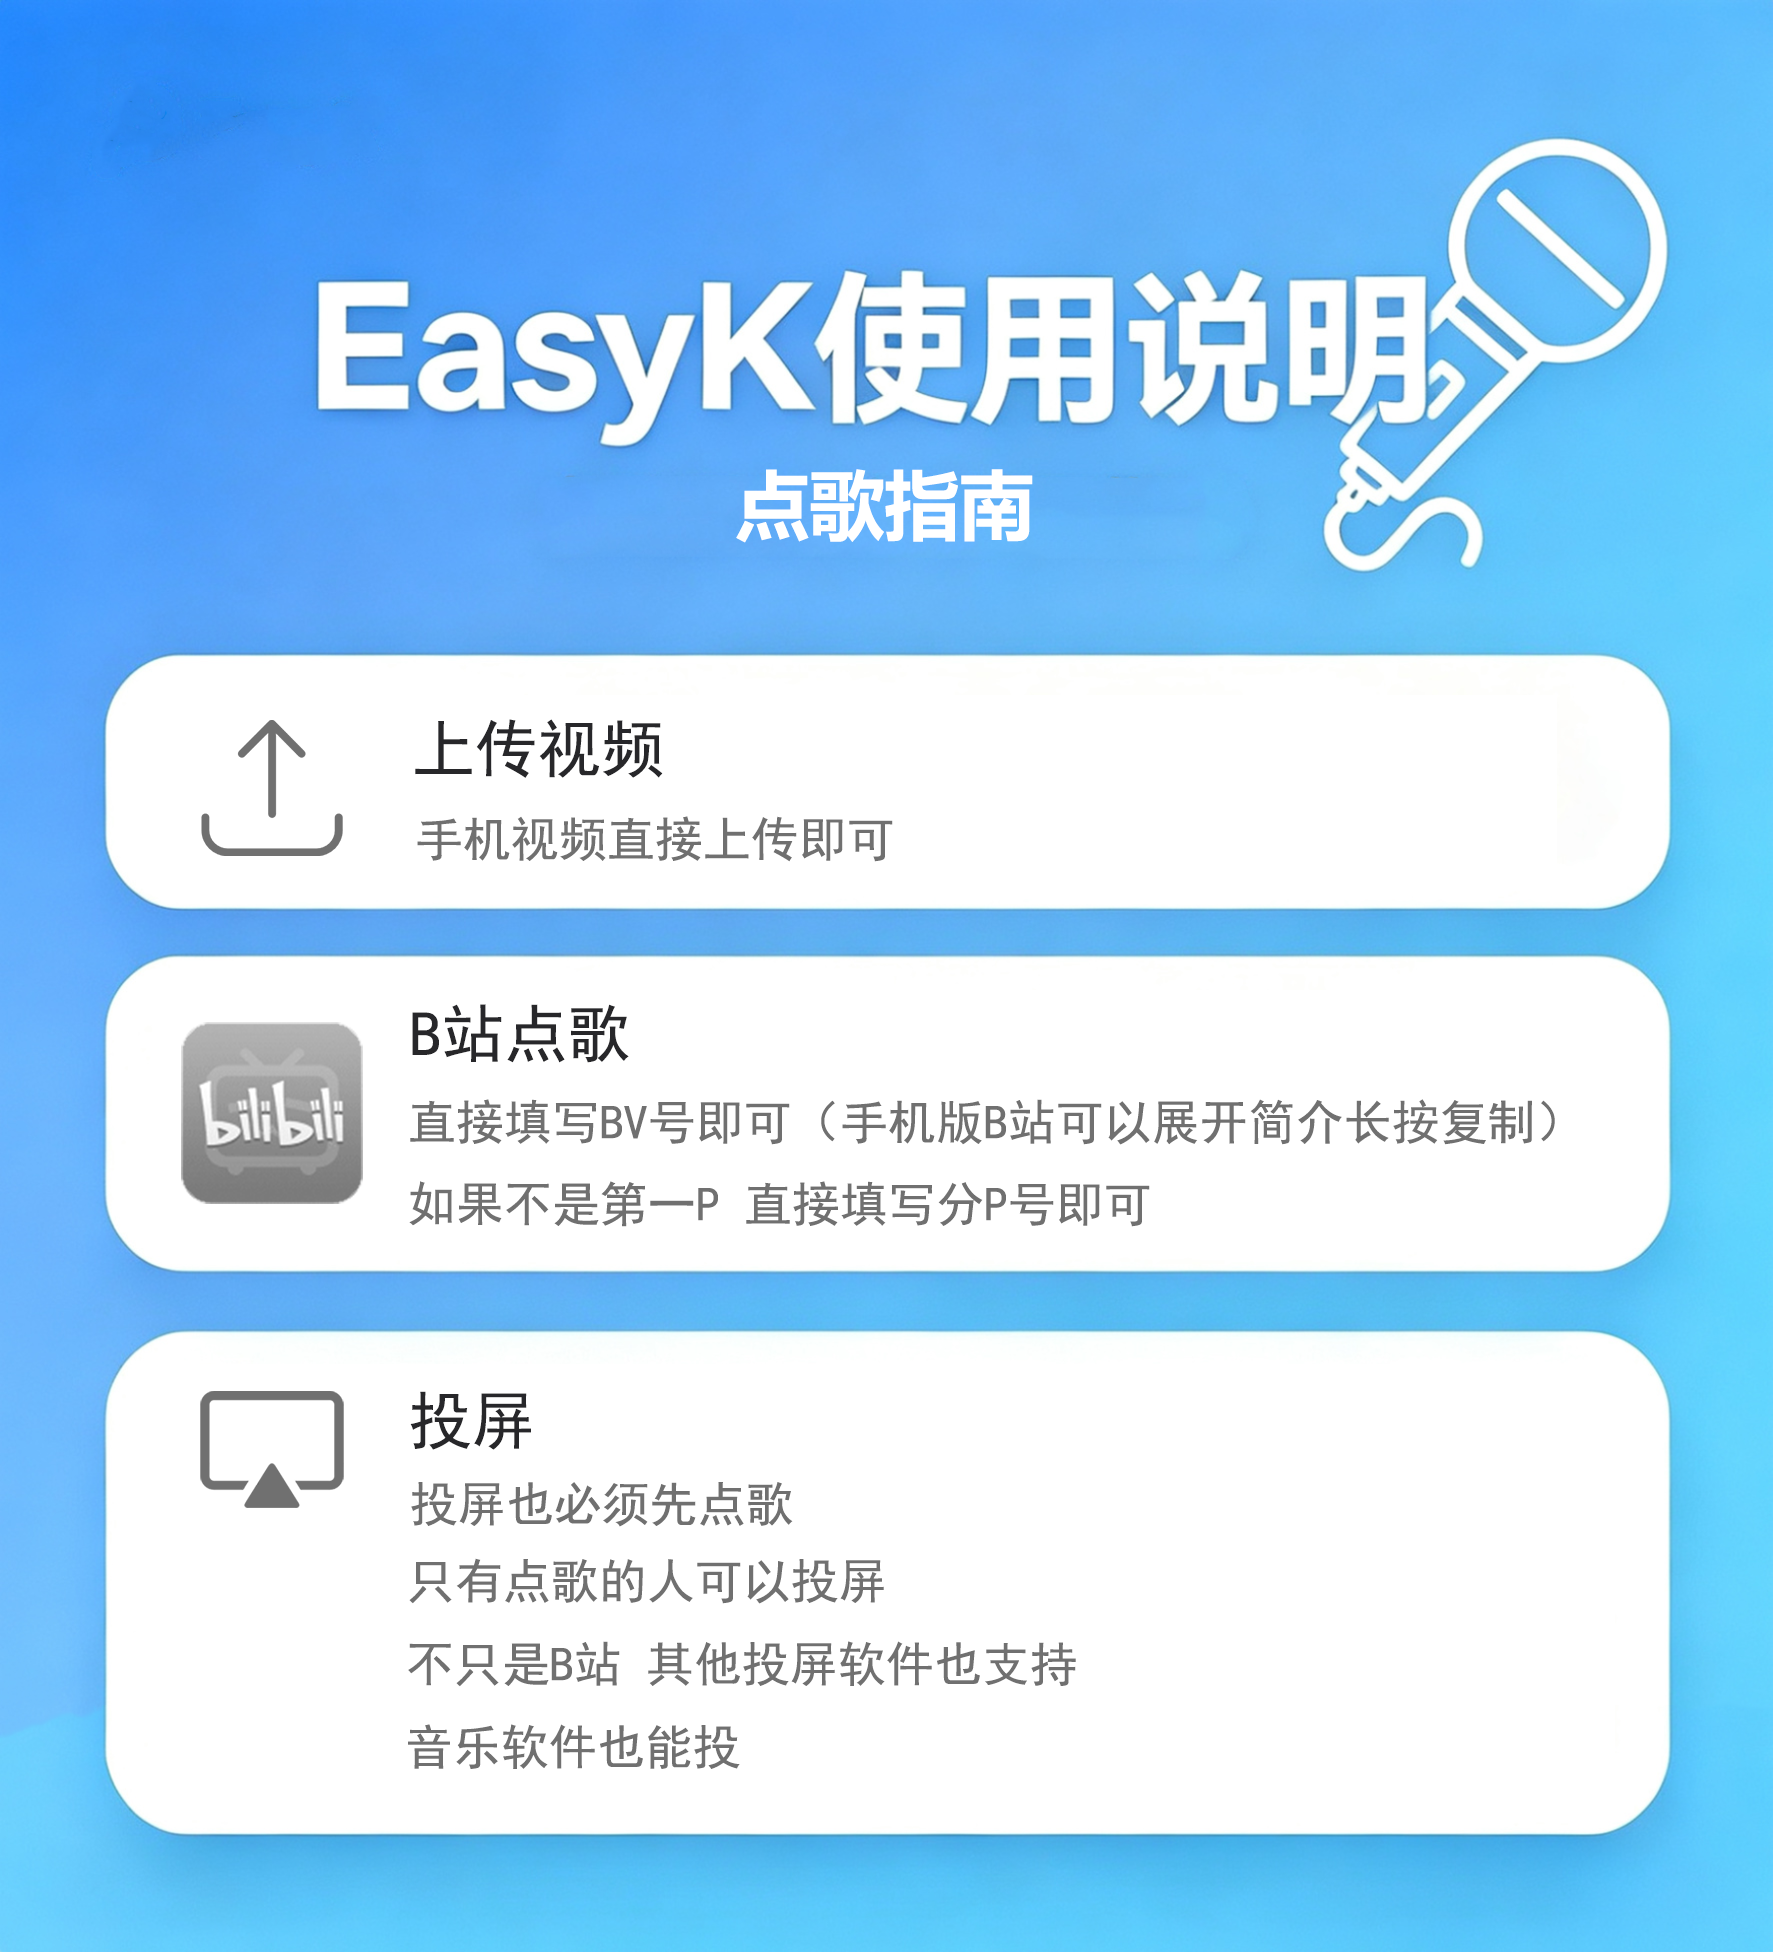
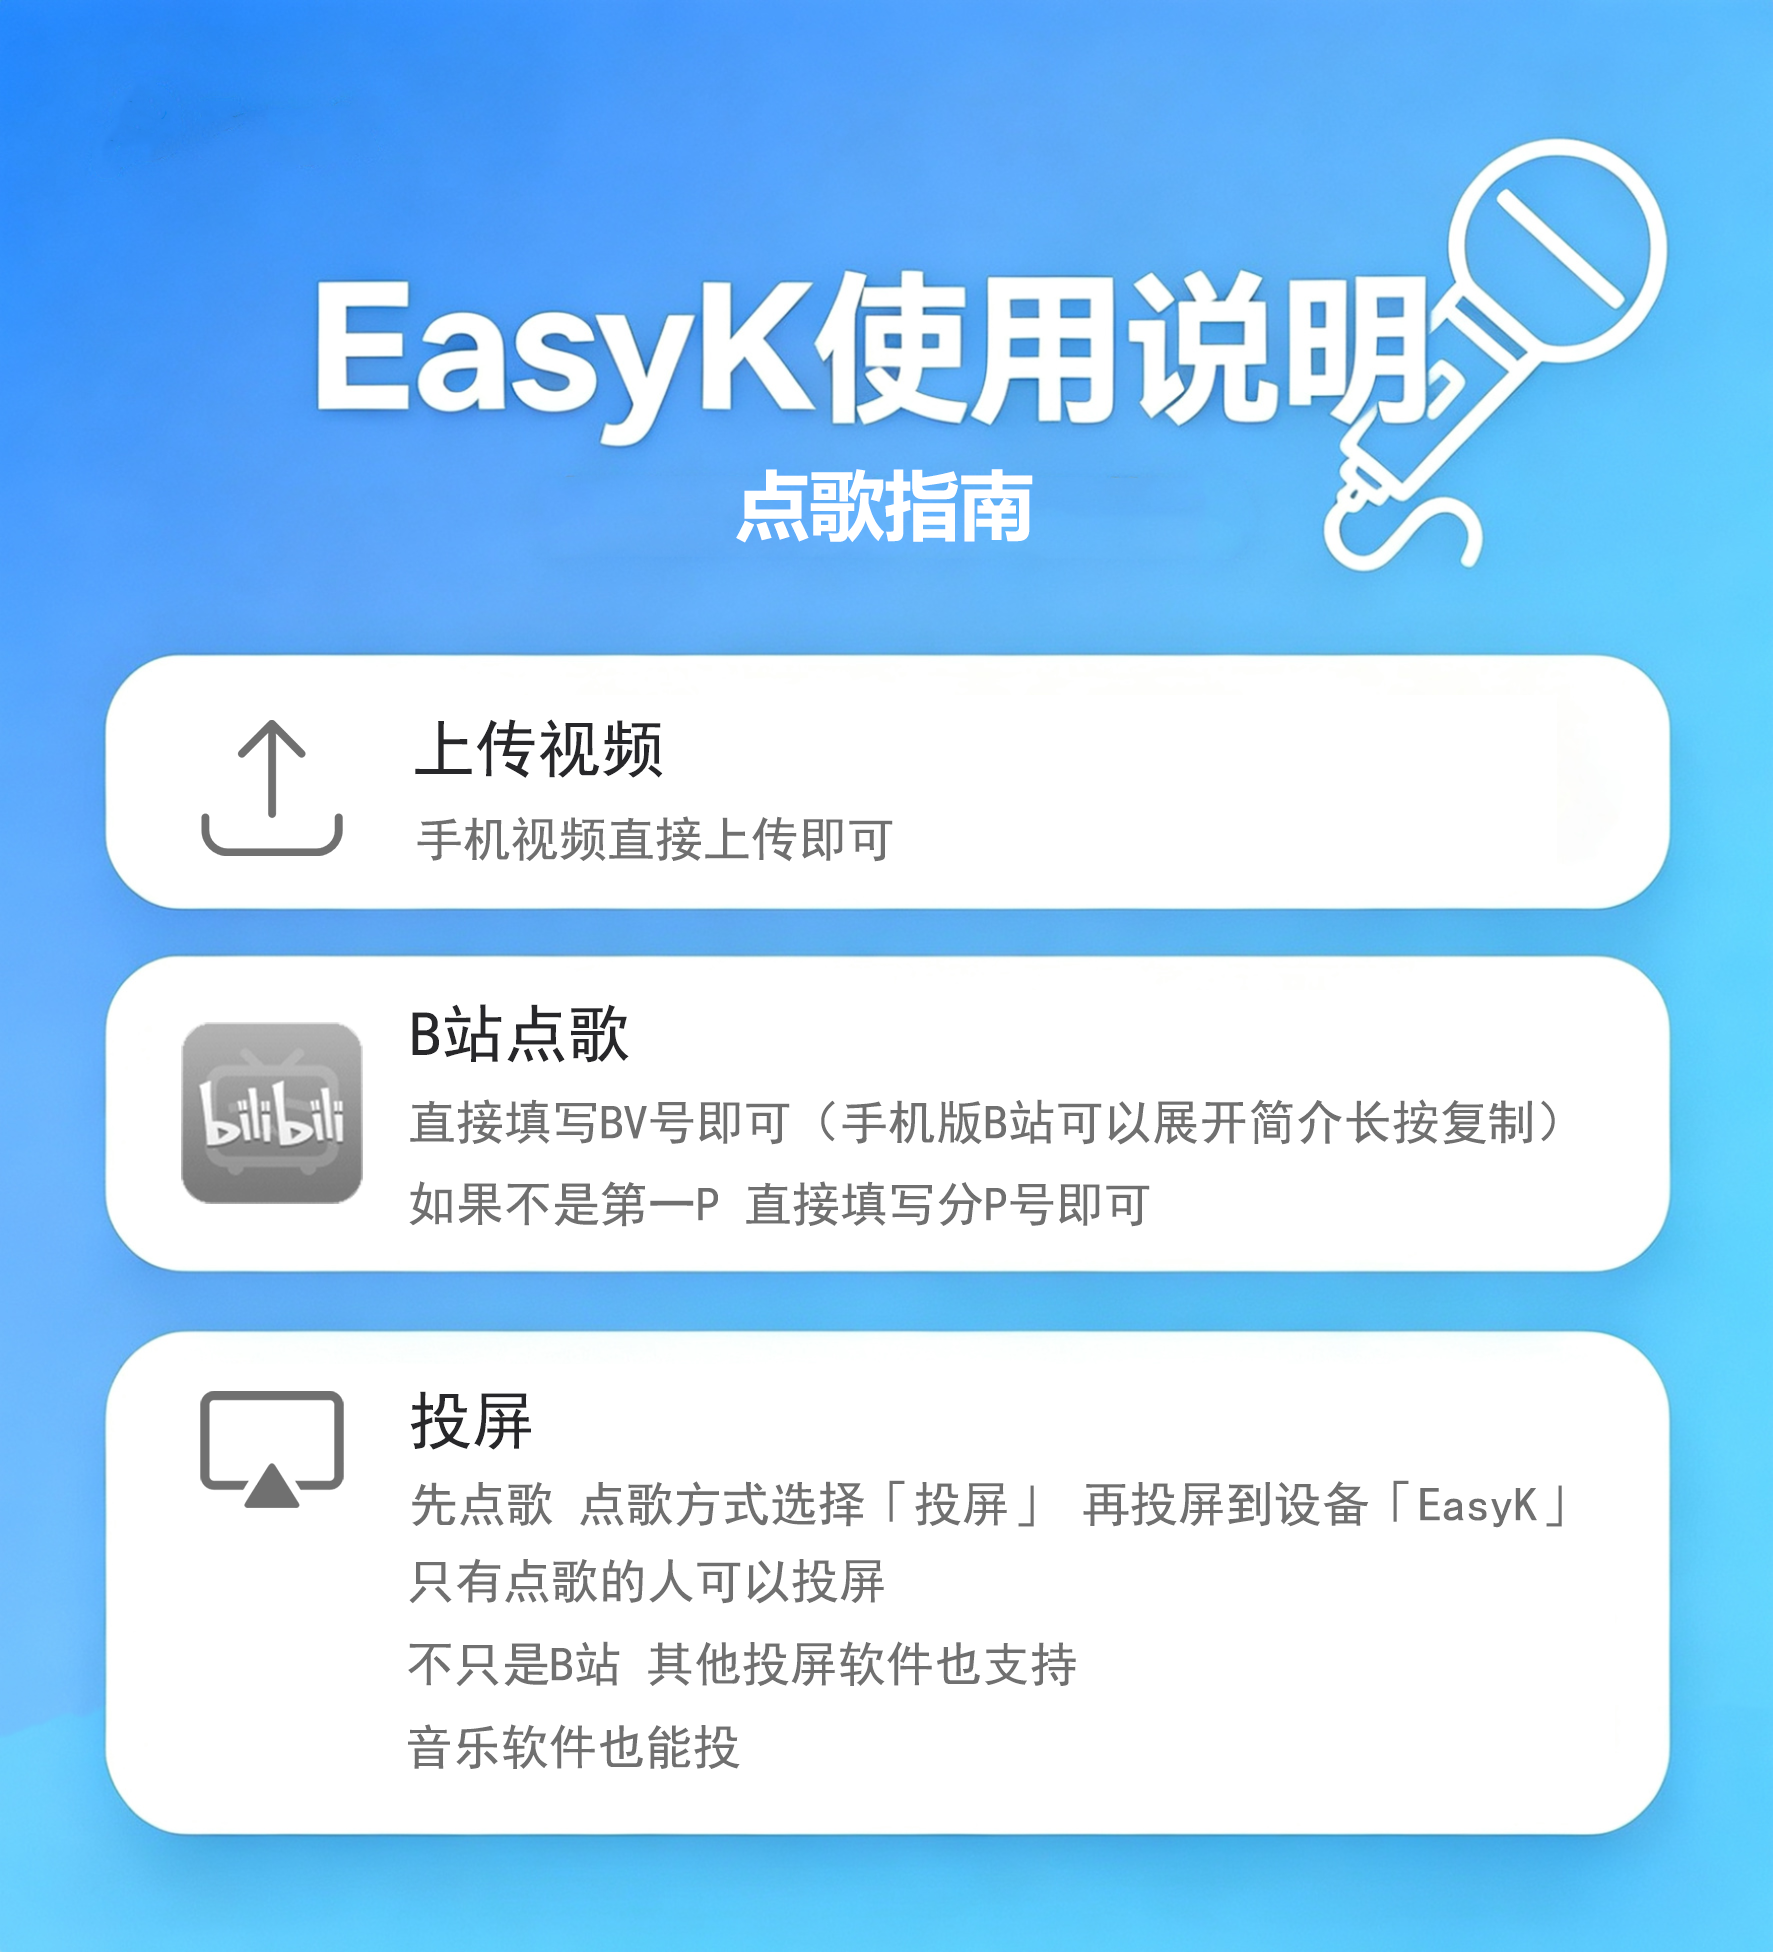
优化

Changed region(s): [[0.2171, 0.75, 0.5894, 0.7812], [0.6204, 0.75, 0.8686, 0.7812]]

diff --git a/README.md b/README.md
@@ -84,7 +84,7 @@
 
 - 点歌界面使用[Vue 3](https://cn.vuejs.org/)和[Vant组件库](https://vant-ui.github.io/)实现
 
-- 理论上支持Windows 7及以上版本系统
+- 理论上支持Windows 10及以上版本系统
 
 ## 如何编译
 
